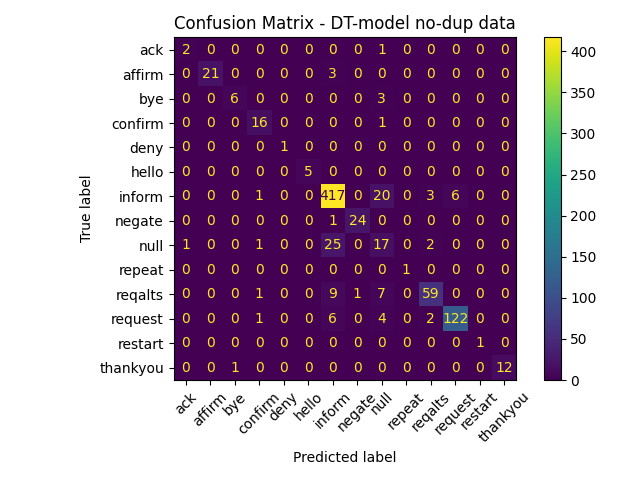
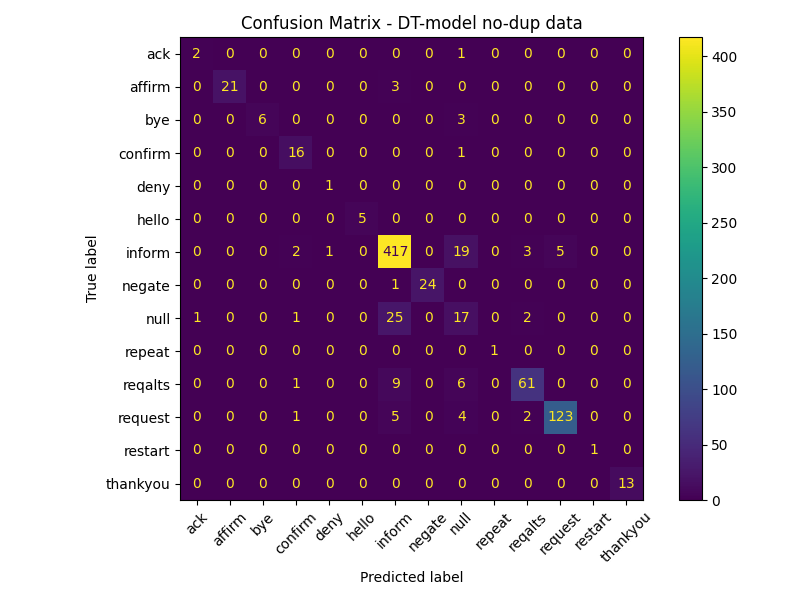
changed plot sizes

diff --git a/main.py b/main.py
@@ -179,8 +179,10 @@ def save_confusion_matrix(y_test, y_pred, model_name):
 
     cm = confusion_matrix(y_test, y_pred)
     disp = ConfusionMatrixDisplay(confusion_matrix=cm, display_labels=labels)
-    # disp.plot()
-    disp.plot(xticks_rotation=45)  # Rotate x-axis labels by 45 degrees
+
+    # Create figure and axes
+    fig, ax = plt.subplots(figsize=(8, 6))  # Adjust size as needed
+    disp.plot(ax=ax, xticks_rotation=45)  # Rotate x-axis labels by 45 degrees
 
     # Add title with the model name
     plt.title(f"Confusion Matrix - {model_name}")
